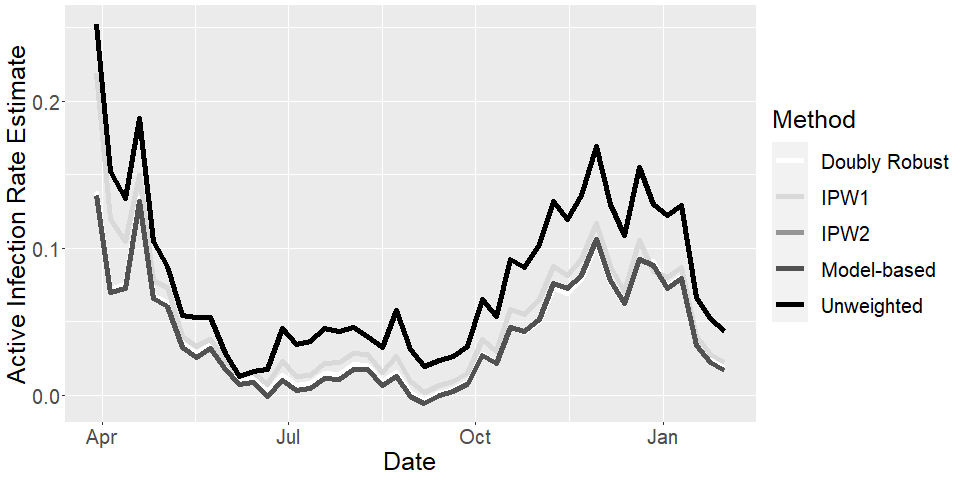
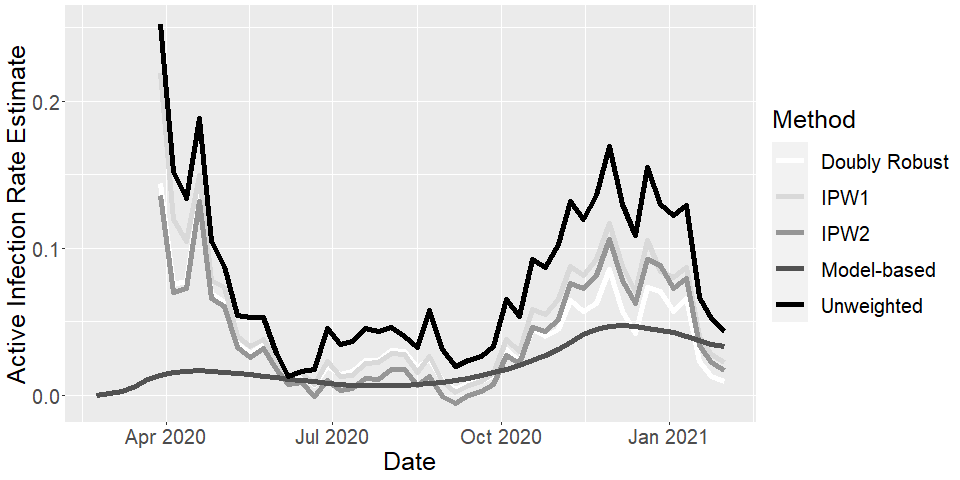
All plots finalized

diff --git a/write-up/letters/response-ref-1-v1.tex b/write-up/letters/response-ref-1-v1.tex
@@ -311,8 +311,9 @@ In the introduction, we now connect random testing to its purpose as a screening
 	\item {\it The SEIR model described in the text and in the supplement differ in a way that I find confusing – the code and equations describe a simple SEIR model but the written text describes an SEmInR model with stratum-specific covariates which appear to apply to at least the I compartments and possibly the E compartments. From the code and equations, presumably the assumption is that all strata mix with identical probability and all strata experience the same probabilities of infection, exposure, and transmission. However, these assumptions are (1) unlikely to hold and (2) make it hard to understand why the model includes strata at all. }
 	\vspace{5mm}
 
-	We thank the reviewer for catching this issue.  We now clarify that the model proposed does not assume equal mixing.  Rather due to limited data, we assume a these mixing probabilities are not time varying and that the  prior probability of mixing is chosen from a symmetric Dirichlet distribution (uniform) time-varying.  We clarify this in Section 5.2 and comment on the code to clarify this more carefully in Appendix H.
-	\textcolor{red}{Need To Do.  Keep model just sensitivity on IFR and smooth over infectious.}
+	\textcolor{red}{
+	We thank the reviewer for catching this issue.  We now clarify that the model proposed does not assume equal mixing.  Due to limited death data, we consider a global SEIR model and only generate strata-specific exposure counts~$E_{t,k}$ via a Multinomial distribution with a parameter~$\{ p_{t,k}  \} $ that has a symmetric Dirichlet prior.  These strata-specific exposure counts are then linked to the observed strata-level death counts via the conditional Poisson model.  We clarify this in Section 5.2 and comment on the code to clarify this more carefully in Appendix H.
+	}
 	\vspace{5mm}
 \end{enumerate}
 \item {\bf Section 4.3: Doubly Robust Estimation}
@@ -362,7 +363,7 @@ In the introduction, we now connect random testing to its purpose as a screening
 	\item {\it As stated above, some description of the assumptions related to contact patterns and transmission between and among age strata is needed. In addition, please clarify which compartments of the model the infection-fatality rate applies to (E \& I or I only), as well as how the model handles death from non-COVID causes from these and other model compartments.}
 	\vspace{5mm}
 
-	\textcolor{red}{See our answer to Question 12 above.  In Section 5.2, we now clarify how we calculate the infection-fatality rate from the compartments of the model. Similar to Johndrow (2021), the model only uses COVID-19 related deaths.  Deaths to non-COVID causes are not directly modeled but would appear as part of the R component in the global SEIR model.}
+	\textcolor{red}{See our answer to Question 12a above.  In Section 5.2, we now clarify hwo the the infection-fatality rate is used in our model. Similar to Johndrow (2021), the model only uses COVID-19 related deaths.  Deaths to non-COVID causes are not directly modeled but would appear as part of the R component in the global SEIR model.}
 	\vspace{5mm}
 	\item {\it Also, the discussion of IFR would benefit greatly from being contextualized to the rest of the paper – the goal of the manuscript is specifically to provide a better estimate of who is infected. Such an estimate would therefore be expected to provide a more valid infection fatality rate, and this in turn implies the IFR used here must be biased. This should be discussed.}
 	\vspace{5mm}
@@ -419,8 +420,8 @@ We clarify in Section 3.2 that this is the peak in the fraction of infected indi
 \item {\it We would expect the IFR to dramatically change after the introductions of vaccines in December 2020, making this method less applicable without introducing a time-varying component.}
 
 \vspace{5mm}
-\textcolor{red}{See our answer to Question 17b of Reviewer \#1. We acknowledge that these IFR estimates are likely biased and time-varying due to introduction of vaccines in 2020.  A sensitivity analysis focused on the issue of choosing an appropriate IFR and allowing for the IFR to be time-varying is now performed.}
-\textcolor{red}{To Do!}
+\textcolor{red}{See our answer to Question 17b of Reviewer \#1. We acknowledge that these IFR estimates may be biased and/or time-varying.  Note the study period ends January 2021 so the bias due to vaccines may be limited.  We now include a sensitivity analysis focused on the issue of choosing an appropriate IFR.}
+% \textcolor{red}{To Do!}
 
 \vspace{5mm}
 \item {\it I found Figure 3 in the supplement [confusing]. Figure 3A shows the profile for a 35-44 white male with symptoms and COVID-19 contact and Figure 3B shows the profile for a 65-74 white female without symptoms nor COVID-19 contact – I would have expected the covariates between these (age, ethnicity, race, gender) to be the same rather than differ with the only thing differing being symptoms 1/ COVID-19 contact? As a minor note, the y-axis labels do not match for this plot.}
@@ -431,8 +432,8 @@ We have fixed Figure 3b to match on covariates and have matching y-axes.  See ou
 \item {\it The model based estimates in Figure 8 seem so different from the other estimates that it is potentially implausible and suggests misspecification of the IFR. Is this potentially due to the age distribution of cases and the IFR collapsing choices? Perhaps as a sensitivity analysis different IFR values should be examined}
 
 \vspace{5mm}
-\textcolor{red}{See our answer to Question 17b of Reviewer \#1 and Question 7 above. A sensitivity analysis focused on the issue of choosing an appropriate IFR is now performed.}
-\textcolor{red}{To Do!}
+\textcolor{red}{See our answer to Question 17b of Reviewer \#1 and Question 7 above. A sensitivity analysis focused on the issue of choosing an appropriate IFR is now performed.  We also note that the active infection estimate being very different for the model-based method in the prior manuscript was a result of how we decided to define the active infection rate using the SEIR model.  With our more precise definition (see answer to Question XX), we now have estimates that are more in line with the IPW estimates.  So while there is likely bias, this bias is likely less pronounced than one woul dhave thought using the calculations from our prior submission.}
+% \textcolor{red}{To Do!}
 \vspace{5mm}
 \item {\bf Minor comments:}
 	\begin{enumerate}

diff --git a/write-up/covid-writeup.tex b/write-up/covid-writeup.tex
@@ -74,6 +74,7 @@
 \def\sgn{\text{sgn}}
 \def\I{\bf I}
 \def\code#1{\texttt{#1}}
+\def\new{\text{new}}
 
 \begin{document}
 
@@ -556,15 +557,15 @@ The estimates~$\hat \mu_t := \bar y_{n,t}^\star$, $\hat \pi_{j,t}$, $\hat{FP}$, 
 %  \frac{\partial r_t}{\partial t} = - \gamma i_t. \nonumber
 % \end{align}
 %Following~\cite{Song2020}, we employ Runge-Kutta (RK4) approximations for discretization.
-Here, we consider covariate information that takes the form of a stratification variable with $K$ strata.  Let $I_{k,t}$ to denote the number of new infections on day $t$ in the $k$th strata.  The joint distribution of strata-specific new infection totals follows a multinomial distribution with
+Here, we consider covariate information that takes the form of a stratification variable with $K$ strata.  Based on these population-level dynamics, we can compute the number of \emph{new exposures} at time~$t$, i.e., $E^\new_{t} := - N \cdot (e_{t+1} - e_{t} + s_{t+1} - s_t)$ to denote the number of new exposures on day $t$ in the $k$th strata.  The joint distribution of strata-specific new exposures~$ \{ E^{\new}_{t,k} \}_{k=1}^K$ follows a multinomial distribution with
  $$
- ( I_{1,t}, \ldots, I_{K,t} ) \sim \text{Multinomial} \left( I_t, (p_{1,t}, \ldots, p_{K, t}) \right).
+ ( E^\new_{1,t}, \ldots, E^\new_{K,t} ) \sim \text{Multinomial} \left( E^\new_t, (p_{1,t}, \ldots, p_{K, t}) \right).
  $$
  where $( {\bf p}_t )_{t=1}^T = ( (p_{1,t}, \ldots, p_{K, t}) )_{t=1}^T$ are a sequence of parameters on the simplex, i.e., $\sum_{k=1}^K p_{k,t} = 1$.
 
  Selection bias is addressed by analyzing COVID-19 death data rather than case counts.  Let $D_{k,r}$ denote the number of individuals who pass away on day $r$ from strata $k$.  Then
  $$
- D_{k,r} \mid p, \theta, \nu \sim \text{Poisson} \left( \sum_{t=1}^r \text{IFR}_{k} \cdot I_{k,t} \theta_{(r-t)} \right)
+ D_{k,r} \mid p, \theta, \nu \sim \text{Poisson} \left( \sum_{t=1}^r \text{IFR}_{k} \cdot E^\new_{k,t} \theta_{(r-t)} \right)
  $$
  where $\text{IFR}_{k}$ is the infection fatality rate for the $k$th strata and $\theta_{j}$ is a discrete-time distribution for time from infection to death.  This extends prior analysis of death data~\cite{Johndrow2020} by allowing the infection fatality rate to depend on a stratification variable, which is important as IFR depends heavily on age~\citep{Levin2020}. See Section~\ref{section:application_of_modelbased} for discussion of parameter choices.  %Additional details on inference are discussed in Appendix~\ref{app:modelbased}.
 
@@ -739,8 +740,8 @@ Here, we consider covariate information that takes the form of a stratification 
  The discrete-time distribution~$\{ \theta_{j} \}$ is a discretized version of a truncated normal distribution with mean $25$, standard deviation~$5$, minimum value $0$, and maximum value $44$.  This closely mirrors the distribution from~\cite{Johndrow2020}. Strata for ages less than $40$ are collapsed due to the limited number of COVID-19 related deaths in this age range. For similar reasons, the multinomial parameter~${\bf p}_t$ is assumed to be constant in time with a Dirichlet prior.
 
  \begin{remark}[Sensitivity to IFR]
-
- \end{remark}
+To account for potential misspecification of the marginal IFR, we perform the same analysis with a 10\% increase and decrease in the marginal IFR under the log-linear model. Figure~\ref{fig:tv_air_sens} in the supplementary materials presents the model-based and doubly robust estimates in these scenarios.
+\end{remark}
 
 
   \begin{figure}
@@ -753,8 +754,8 @@ Here, we consider covariate information that takes the form of a stratification 
  \end{subfigure}%
  \begin{subfigure}{.5\textwidth}
   \centering
-  \includegraphics[width=.9\linewidth]{../figs/cases_ppc.png}
- \caption{Posterior on daily case counts.}
+  \includegraphics[width=.9\linewidth]{../figs/exposures_ppc.png}
+ \caption{Posterior on daily new exposures.}
  \label{fig:casesppc}
  \end{subfigure}
  \caption{Posterior predictive check (PPC) on death counts and posterior distribution of case counts.}
@@ -768,7 +769,7 @@ Here, we consider covariate information that takes the form of a stratification 
  $$
  where~$(\beta_0,\beta_1, \beta_2, \beta_3)$ is the vector of transmission rate parameters, $\nu \geq 0$ is the potential delay, $\xi$ is the rate of change, and ${\bf 1}[\cdot]$ is an indicator function.  Each weight~$w_t^{(k)} = 0$ for $t < t_k$ and $w_t^{(k)} \to 1$ as $t \to \infty$. See Section~\ref{app:prior_modelbased} in the supplementary materials for details on prior specification.
 
- To check model fit, a posterior predictive check on aggregate death counts was performed. Figure~\ref{fig:deathsppc} shows the results which suggests chosen SEIR model fits the observed data well. Figure~\ref{fig:casesppc} presents the posterior distribution of total new cases.  Figure~\ref{fig:undercounting} in the supplementary materials computes the weekly undercount factor of observed case counts.  Posterior distributions for the age-specific case counts are used as part of the doubly-robust estimator of the active infection rate.
+ To check model fit, a posterior predictive check on aggregate death counts was performed. Figure~\ref{fig:deathsppc} shows the results which suggests chosen SEIR model fits the observed data well. Figure~\ref{fig:casesppc} presents the posterior distribution of total new exposures. As the active infection rate is defined as all infected individuals who’s viral load has yet to fall below detectable levels by RT-PCR testing, parameters underlying the population-level dynamics are combines with model-estimates of the number of newly exposed individuals to estimate the number of individuals with an active infection on each day. To compare with case count data, Figure~\ref{fig:undercounting} in the supplementary materials computes the weekly cumulative undercount factor of observed case counts.  Posterior distributions for the age-specific case counts are used as part of the doubly-robust estimator of the active infection rate.
 
 
  \subsection{Time-varying prevalence estimates}

diff --git a/write-up/covid-supplement-writeup.tex b/write-up/covid-supplement-writeup.tex
@@ -972,15 +972,24 @@ For simplicity, we list the priors used in STAN below:
   \item \code{phi = 1/phi\_inv;}
   \item \code{xi = xi\_raw + 0.5;}
 \end{itemize}
-where \code{beta, eta, eta\_two, eta\_three} refer to the four values that form the time-varying parameter $\beta_t$ when combined with \code{xi, eta, eta\_two, eta\_three} in the SEIR model as described in Section~\ref{section:modelbased}. Following~\cite{Song2020}, we employ Runge-Kutta (RK4) approximations for discretization.
+where \code{beta, eta, eta\_two, eta\_three} refer to the four values that form the time-varying parameter $\beta_t$ when combined with \code{xi, eta, eta\_two, eta\_three} in the SEIR model as described in Section~\ref{section:modelbased}. Following~\cite{Song2020}, we employ Runge-Kutta (RK4) approximations for discretization.  \textcolor{red}{Sub strata via kernel weighting due to limited data.}
 
 Figure~\ref{fig:undercounting} below is a plot of undercount based on the SEIR model.  We see the undercount goes away by January; however, this points to potential misspecification of the IFR.
 
 \begin{figure}[!th]
  \centering
- \includegraphics[width=.6\linewidth]{../figs/undercounting.png}
- \caption{Undercount based on SEIR model}
+ \includegraphics[width=.6\linewidth]{../figs/cumulative_undercounting.png}
+ \caption{Cumulative undercount based on SEIR model}
  \label{fig:undercounting}
+\end{figure}
+
+Figure~\ref{fig:tv_air_sens} below is a sensitivity analysis of the active infection rate under SEIR model with 10\% increase and decrease in the average IFR.  We see that the impact on the doubly robust estimates is minimal.
+
+\begin{figure}[!th]
+ \centering
+ \includegraphics[width=.6\linewidth]{../figs/tv_air_sensitivity.png}
+ \caption{Undercount based on SEIR model}
+ \label{fig:tv_air_sens}
 \end{figure}
 
 \section{Alternative estimator of the instantaneous reproductive number}
